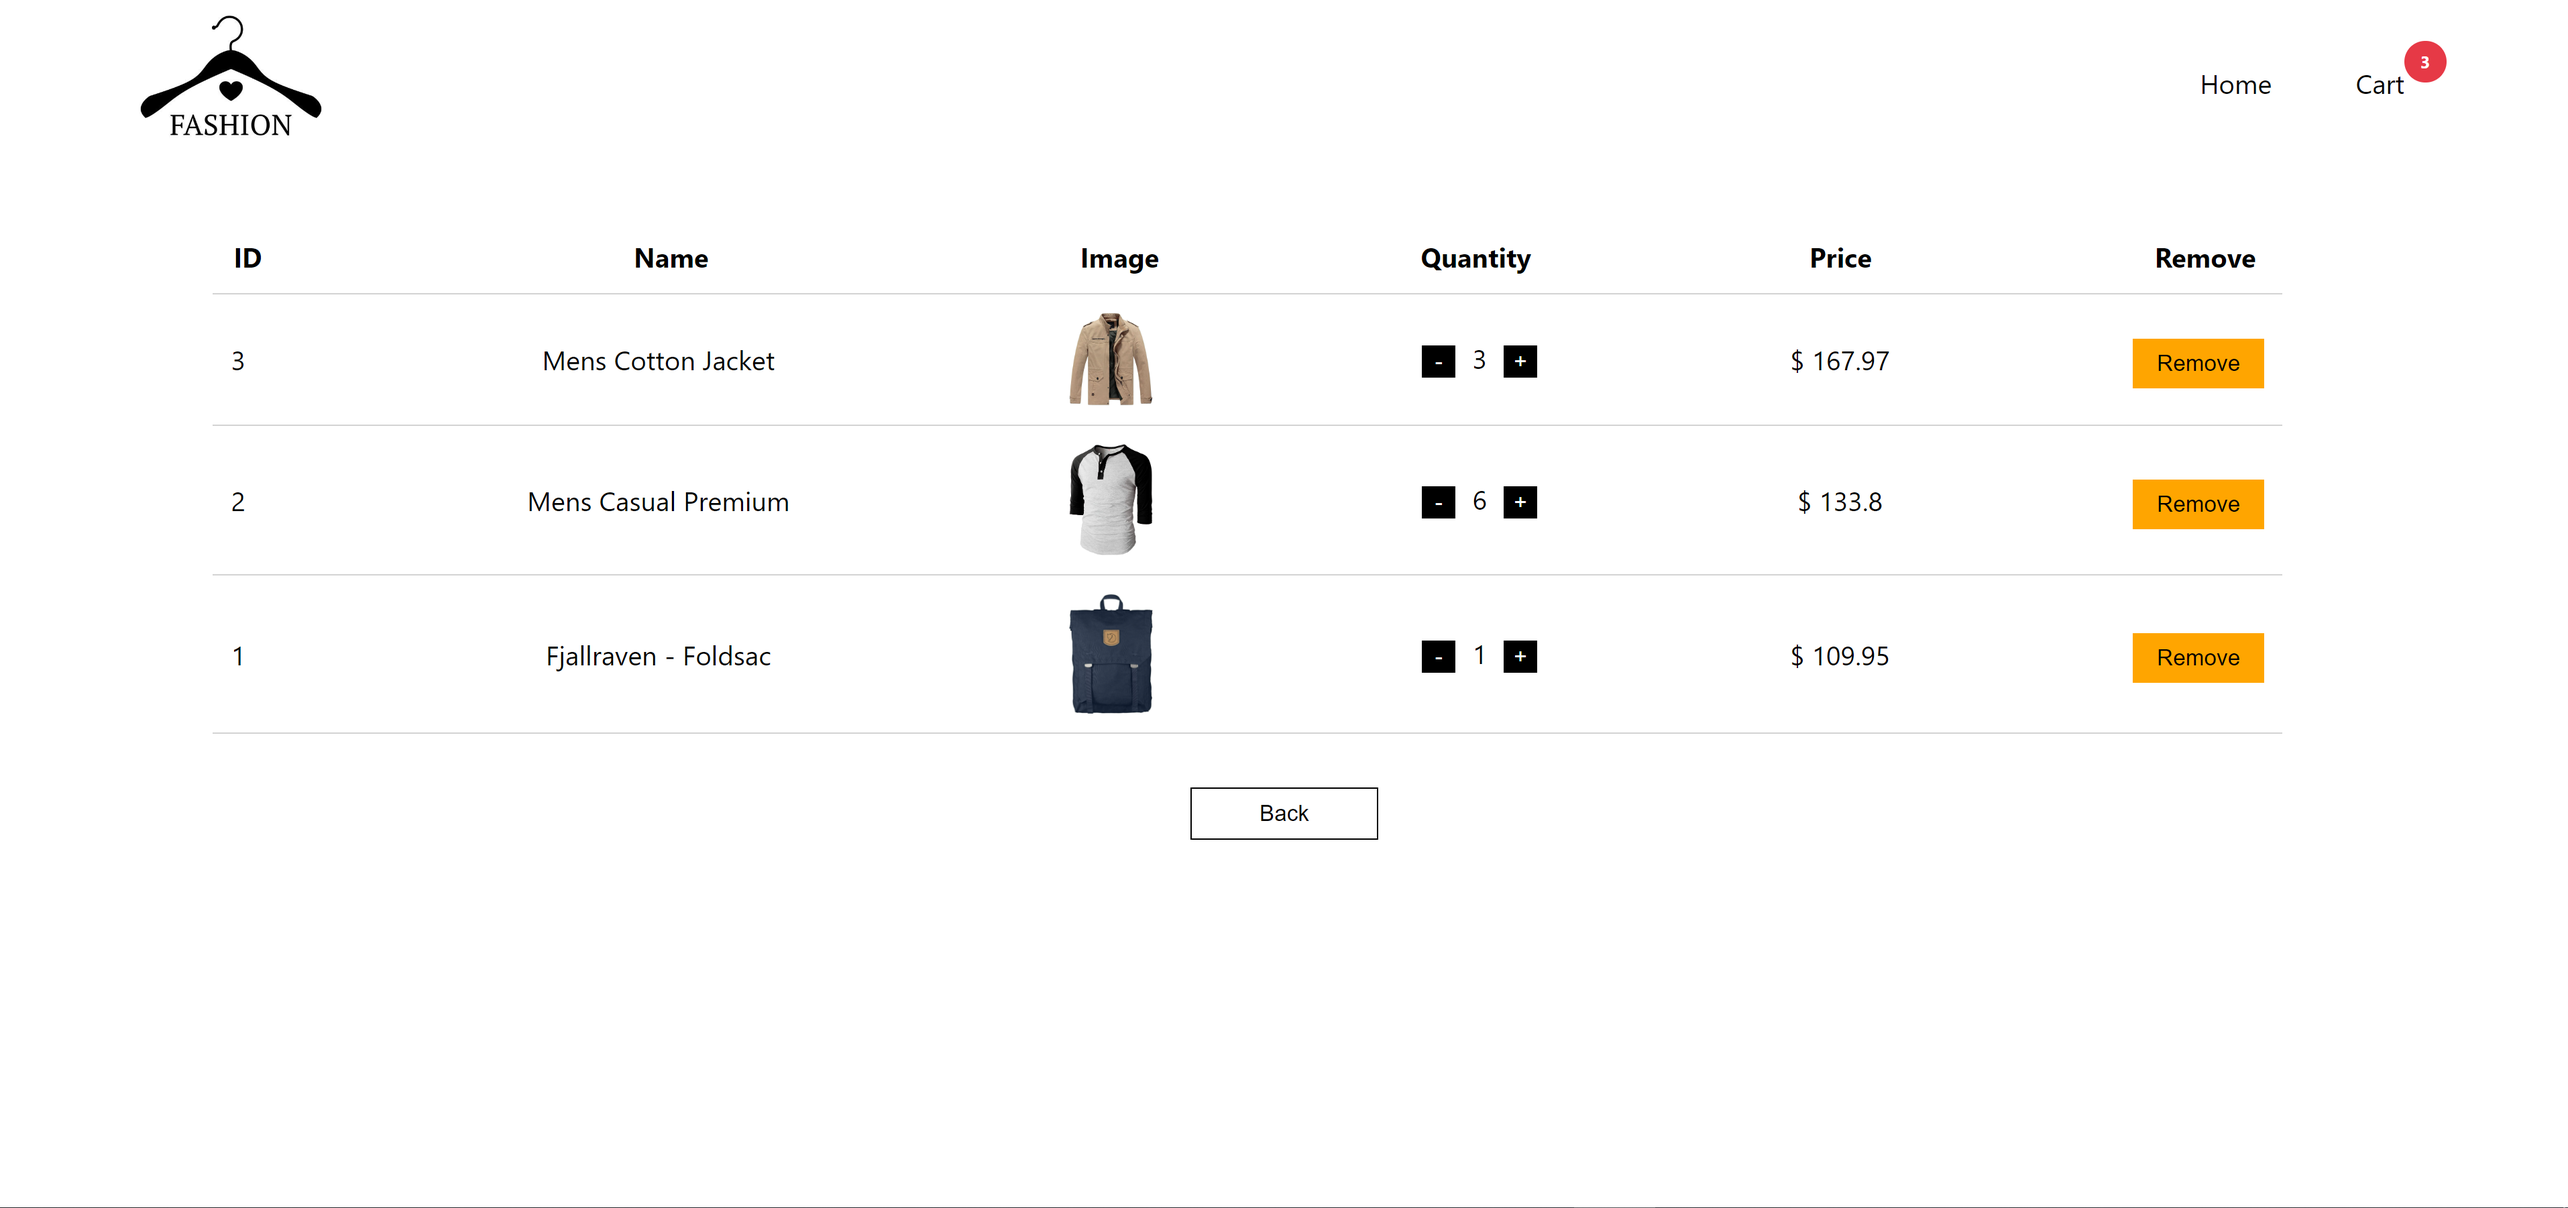
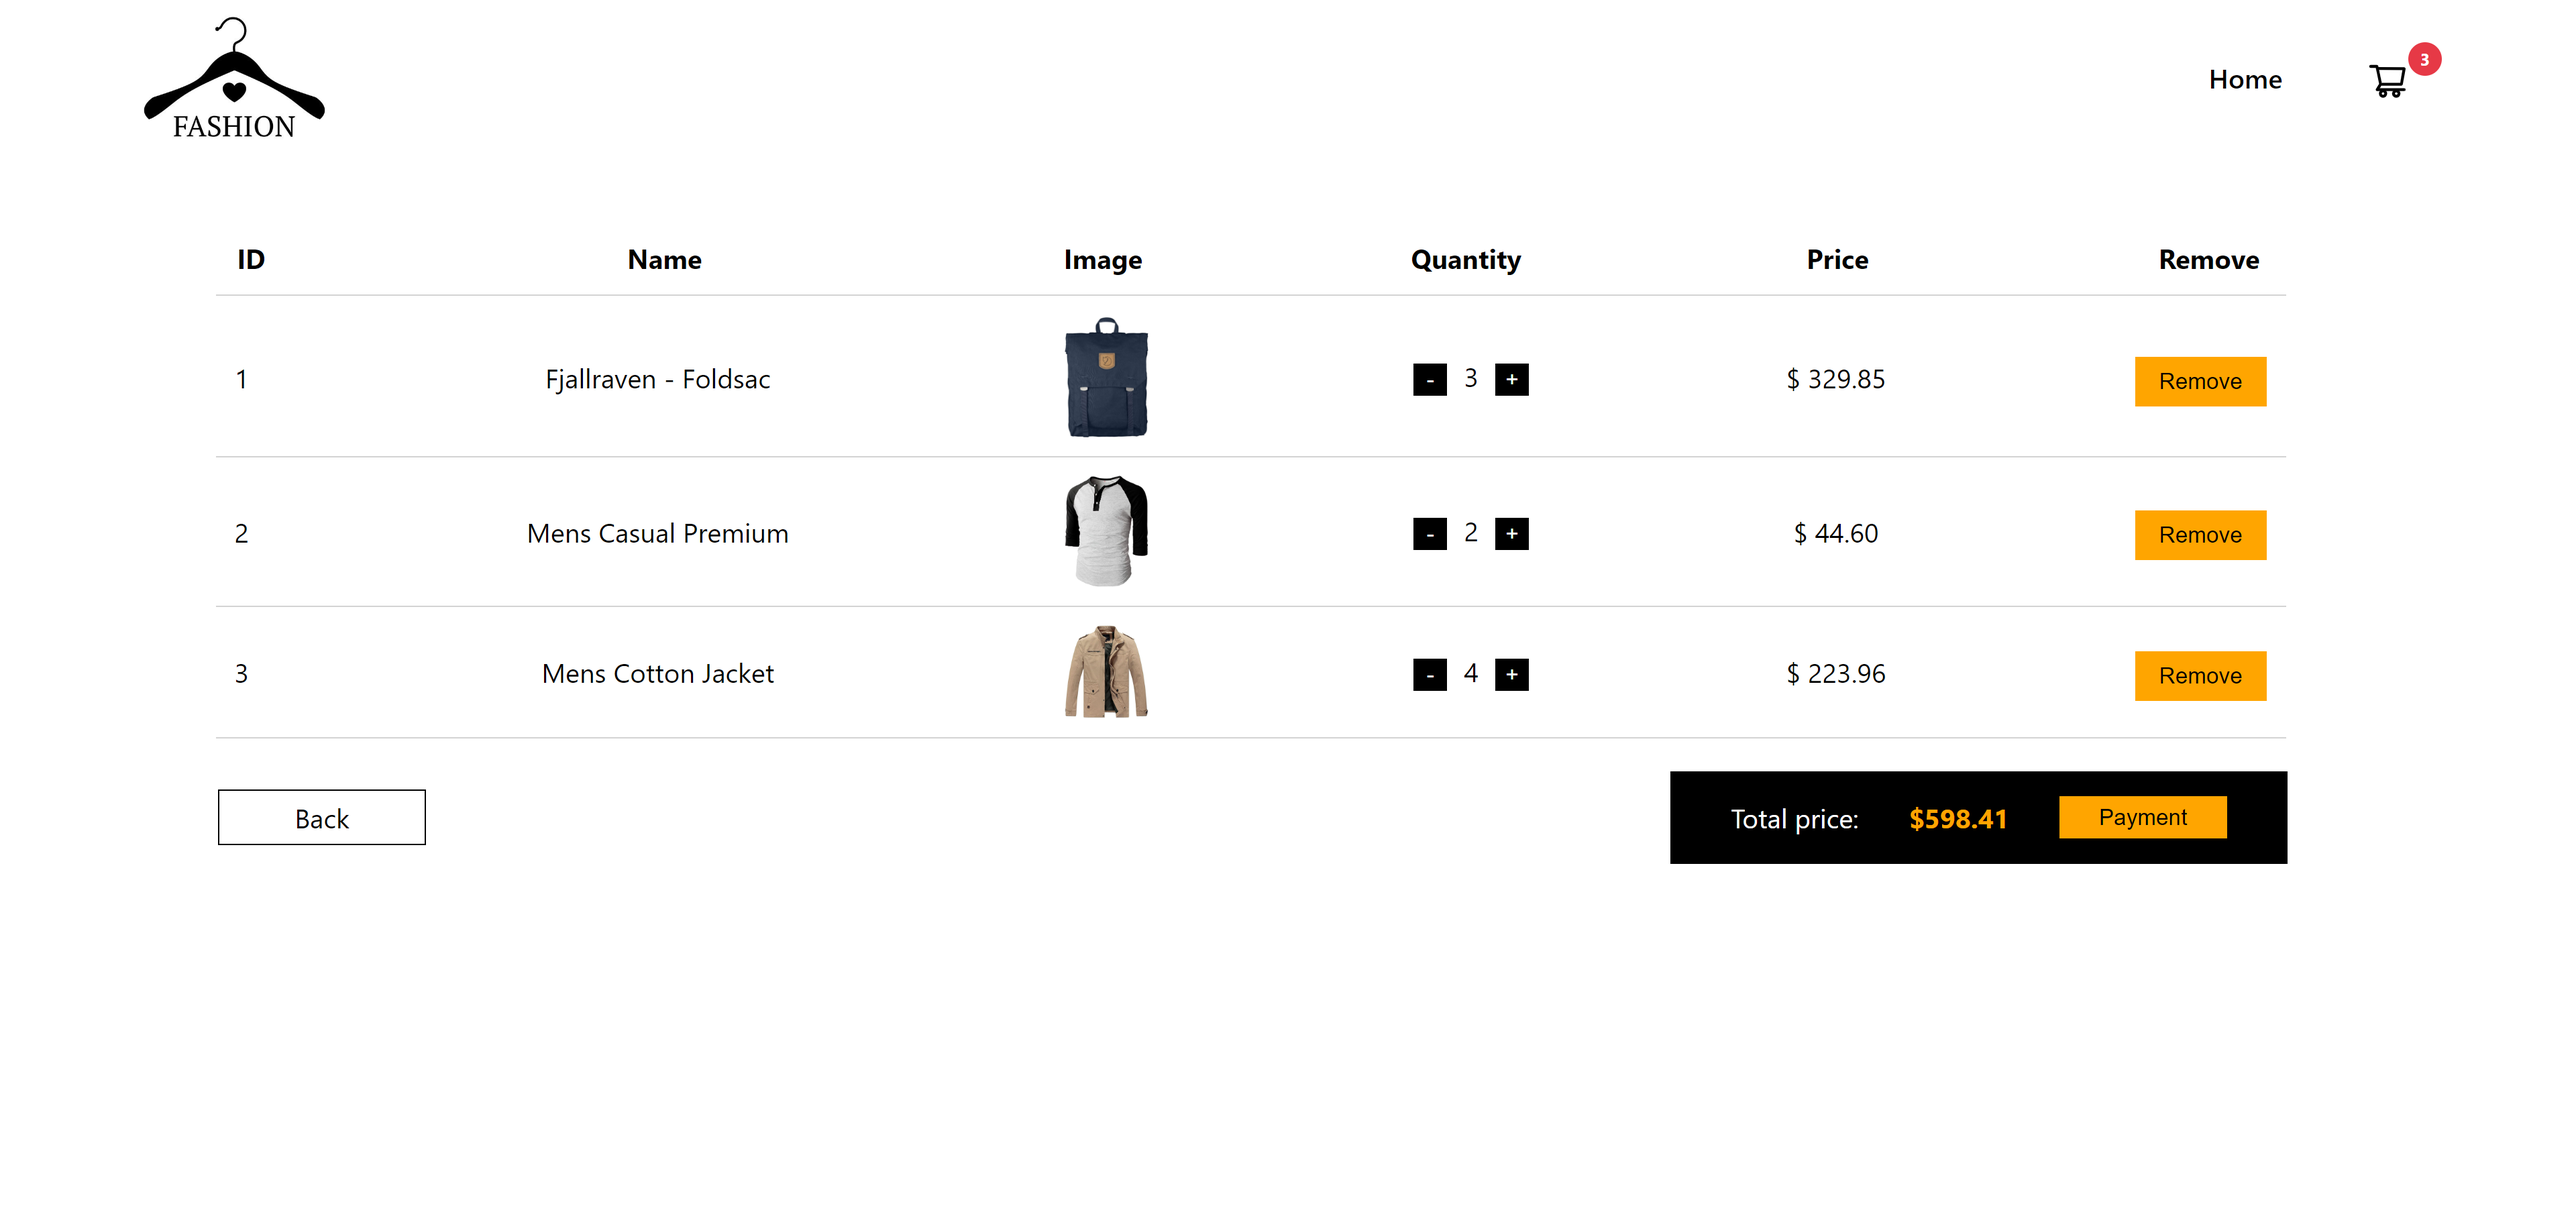
add total price

diff --git a/src/components/cart/CartList.css b/src/components/cart/CartList.css
@@ -1,6 +1,7 @@
 .cart-container{
   display: flex;
   flex-direction: column;
+  justify-content: center;
 }
 .cart-list{
   display: flex;
@@ -23,7 +24,7 @@
   width: 20px;
 }
 .name{
-  width: 180px;
+  width: 160px;
   text-align: center;
 }
 .img{
@@ -41,25 +42,59 @@
 .rmv-btn{
   width: 70px;
 }
-.cart-backbtn{
-  display: block;
-  text-align: center;
+.btn-price-div{
+  position: relative;
+  display: flex;
+  align-items: center;
+  margin-top: 5px;
+  margin-bottom: 30px;
+  height: 60px;
 }
-.cart-backbtn button{
+.cart-backbtn{
+  display: flex;
+  position: absolute;
+  justify-content: center;
+  align-items: center;
   width: 7rem;
-  padding: 7px 5px;
-  margin:20px 0 30px 0;
+  padding: 5px 5px;
+  left:130px;
   border: 1px solid black;
   background-color: #fff;
   color: black;
   cursor: pointer;
+  text-decoration: none;
   transition: .1s ease-in-out;
 }
-.cart-backbtn button:hover{
+.btn-price-div p{
+  position: absolute;
+  right: 50%;
+  margin-right: -108.26px;
+}
+.cart-backbtn:hover{
   background-color: black;
   color: #fff;
   border: 1px solid #fff;
 }
-p{
-  text-align: center;
+.total-price{
+  display: flex;
+  justify-content: center;
+  position: absolute;
+  align-items: center;
+  width: 22%;
+  background-color: black;
+  color:#fff;
+  right:172px;
+  padding: 15px 15px;
+  gap:30px;
+}
+.total-price button{
+  width: 100px;
+  padding: 5px 10px;
+  background-color: orange;
+  border: none;
+  cursor: pointer;
+  transition: .2s ease-in-out;
+}
+.total-price button:hover{
+  background-color: #a7c957;
 }

diff --git a/src/components/cart/CartList.js b/src/components/cart/CartList.js
@@ -36,14 +36,25 @@ export default function CartList({
           })}
         </table>
       </div>
-      {cartItems.length === 0 ? <p>There is no product in the cart.</p> : null}
-      <div>
-        total price:
-        {/* {cartItems.reduce((acc, curr) => acc.totalPrice + curr.totalPrice)} */}
+      <div className="btn-price-div">
+        {cartItems.length === 0 ? (
+          <p>There is no product in the cart.</p>
+        ) : (
+          <div className="total-price">
+            <span>Total price:</span>
+            <span style={{ fontWeight: "bold", color: "orange" }}>
+              $
+              {cartItems
+                .reduce((acc, curr) => acc + curr.totalPrice, 0)
+                .toFixed(2)}
+            </span>
+            <button type="button">Payment</button>
+          </div>
+        )}
+        <Link to="/" className="cart-backbtn">
+          Back
+        </Link>
       </div>
-      <Link to="/" className="cart-backbtn">
-        <button type="button">Back</button>
-      </Link>
     </div>
   );
 }

diff --git a/src/components/cart/CartItem.js b/src/components/cart/CartItem.js
@@ -27,7 +27,7 @@ export default function CartItem({
             +
           </button>
         </td>
-        <td className="cart-price">$ {item.totalPrice}</td>
+        <td className="cart-price">$ {item.totalPrice.toFixed(2)}</td>
         <td>
           <button
             type="button"

diff --git a/src/pages/ProductDetail.css b/src/pages/ProductDetail.css
@@ -6,7 +6,7 @@
 .product-detail{
   display: flex;
   justify-content: center;
-  padding: 50px 50px;
+  padding: 30px 50px;
 }
 .img-detail{
   display: flex;

diff --git a/src/components/cart/CartItem.css b/src/components/cart/CartItem.css
@@ -22,7 +22,7 @@
   text-align: center;
 }
 .cart-price{
-  width: 60px;
+  width: 70px;
   text-align: center;
 }
 .cart-btn{
